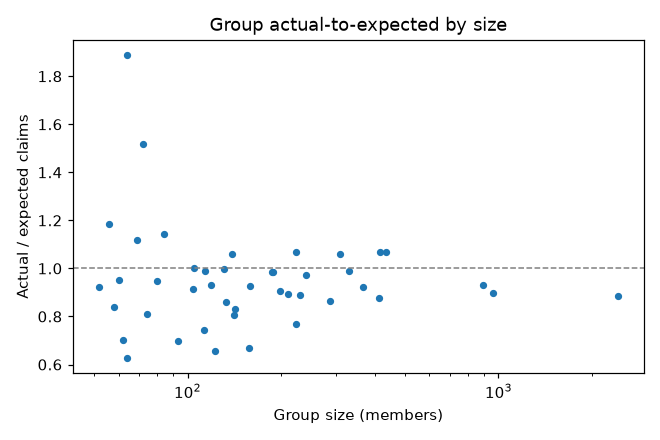
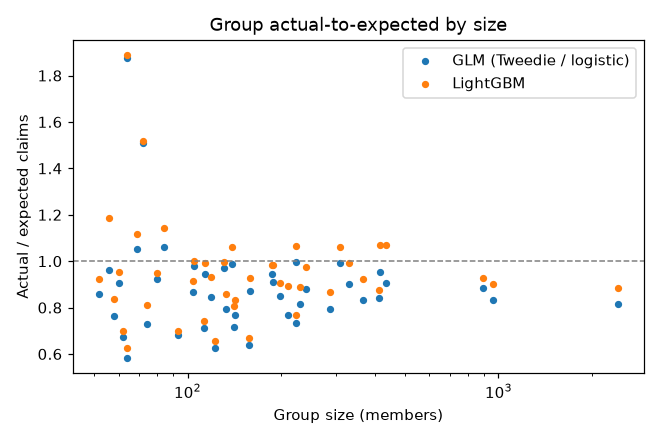
Regenerate synthetic results with both-model pricing

diff --git a/docs/synthetic/results.md b/docs/synthetic/results.md
@@ -62,17 +62,22 @@ Predictive ratio (predicted / actual) by decile of predicted cost:
 | $100,000 | 24 | LightGBM | 0.393 [0.271–0.494] | 0.002 [0.001–0.003] | 1.2 [0.0–2.1] | 0.0022 [0.0013–0.0031] |
 | $100,000 | 24 | GLM (Tweedie / logistic) | 0.502 [0.383–0.631] | 0.004 [0.001–0.023] | 1.2 [0.0–2.7] | 0.0022 [0.0013–0.0031] |
 
+AUC difference, LightGBM − GLM (paired, resampling members): $25,000: 0.006 [-0.007–0.018]; $50,000: -0.005 [-0.020–0.013]; $100,000: -0.109 [-0.275–0.051].
+
 ![HCC calibration](figures/hcc_calibration.png)
 
 ## Tail
 
 Generalized Pareto above $25,000 on training members' 2009 cost: shape ξ = 0.243, scale σ = $24,511, 407 exceedances (3.7% of members), KS p = 3.8e-05 (the KS p-value ignores that the parameters were fit, so it is optimistic).
 
-| Attachment | Claimants | Expected excess / member | Actual excess / member | Actual / expected |
-|---|---|---|---|---|
-| $25,000 | 467 | $1,418 [$1,365–$1,475] | $1,300 [$1,110–$1,482] | 0.92 [0.80–1.04] |
-| $50,000 | 265 | $711 [$685–$740] | $545 [$419–$687] | 0.77 [0.59–0.95] |
-| $100,000 | 24 | $251 [$242–$261] | $149 [$70–$245] | 0.60 [0.28–0.97] |
+| Attachment | Claimants | HCC model | Expected excess / member | Actual excess / member | Actual / expected |
+|---|---|---|---|---|---|
+| $25,000 | 467 | LightGBM | $1,418 [$1,365–$1,475] | $1,300 [$1,110–$1,482] | 0.92 [0.80–1.04] |
+| $25,000 | 467 | GLM (Tweedie / logistic) | $1,429 [$1,369–$1,493] | $1,300 [$1,110–$1,482] | 0.91 [0.79–1.03] |
+| $50,000 | 265 | LightGBM | $711 [$685–$740] | $545 [$419–$687] | 0.77 [0.59–0.95] |
+| $50,000 | 265 | GLM (Tweedie / logistic) | $717 [$687–$749] | $545 [$419–$687] | 0.76 [0.58–0.94] |
+| $100,000 | 24 | LightGBM | $251 [$242–$261] | $149 [$70–$245] | 0.60 [0.28–0.97] |
+| $100,000 | 24 | GLM (Tweedie / logistic) | $253 [$242–$264] | $149 [$70–$245] | 0.59 [0.27–0.97] |
 
 ![Tail diagnostics](figures/tail_mean_excess_qq.png)
 
@@ -87,14 +92,20 @@ Generalized Pareto above $25,000 on training members' 2009 cost: shape ξ = 0.24
 
 ## Stop-loss pricing by group size (test)
 
-| Size band | Groups | Members | Priced loss ratio | Actual loss ratio | Claims actual / expected | Specific actual / expected | Aggregate hits (expected) |
-|---|---|---|---|---|---|---|---|
-| 50-99 | 13 | 888 | 0.845 | 0.863 [0.735–1.001] | 1.02 [0.87–1.19] | 1.22 [0.60–2.13] | 0 (2.5) |
-| 100-249 | 21 | 3,384 | 0.859 | 0.776 [0.736–0.821] | 0.90 [0.86–0.96] | 0.72 [0.51–0.96] | 0 (2.4) |
-| 250-499 | 7 | 2,560 | 0.868 | 0.854 [0.805–0.906] | 0.98 [0.93–1.04] | 0.91 [0.54–1.23] | 0 (0.2) |
-| 500-999 | 2 | 1,856 | 0.869 | 0.794 [0.782–0.808] | 0.91 [0.90–0.93] | 0.24 [0.03–0.48] | 0 (0.0) |
-| 1000-2500 | 1 | 2,416 | 0.870 | 0.770 [0.770–0.770] | 0.89 [0.89–0.89] | 0.50 [0.50–0.50] | 0 (0.0) |
-| All | 44 | 11,104 | 0.864 | 0.803 [0.778–0.837] | 0.93 [0.90–0.97] | 0.81 [0.60–1.05] | 0 (5.2) |
+| Models | Size band | Groups | Members | Priced loss ratio | Actual loss ratio | Claims actual / expected | Specific actual / expected | Aggregate hits (expected) |
+|---|---|---|---|---|---|---|---|---|
+| GLM (Tweedie / logistic) | 50-99 | 13 | 888 | 0.845 | 0.809 [0.688–0.952] | 0.96 [0.82–1.13] | 1.22 [0.59–2.16] | 0 (2.4) |
+| GLM (Tweedie / logistic) | 100-249 | 21 | 3,384 | 0.860 | 0.723 [0.687–0.767] | 0.84 [0.80–0.89] | 0.72 [0.51–0.95] | 0 (2.3) |
+| GLM (Tweedie / logistic) | 250-499 | 7 | 2,560 | 0.868 | 0.773 [0.740–0.814] | 0.89 [0.85–0.94] | 0.89 [0.53–1.20] | 0 (0.3) |
+| GLM (Tweedie / logistic) | 500-999 | 2 | 1,856 | 0.869 | 0.745 [0.724–0.767] | 0.86 [0.83–0.88] | 0.23 [0.03–0.47] | 0 (0.0) |
+| GLM (Tweedie / logistic) | 1000-2500 | 1 | 2,416 | 0.870 | 0.710 [0.710–0.710] | 0.82 [0.82–0.82] | 0.50 [0.50–0.50] | 0 (0.0) |
+| GLM (Tweedie / logistic) | All | 44 | 11,104 | 0.864 | 0.742 [0.721–0.775] | 0.86 [0.83–0.90] | 0.80 [0.60–1.03] | 0 (5.1) |
+| LightGBM | 50-99 | 13 | 888 | 0.845 | 0.863 [0.735–1.001] | 1.02 [0.87–1.19] | 1.22 [0.60–2.13] | 0 (2.5) |
+| LightGBM | 100-249 | 21 | 3,384 | 0.859 | 0.776 [0.736–0.821] | 0.90 [0.86–0.96] | 0.72 [0.51–0.96] | 0 (2.4) |
+| LightGBM | 250-499 | 7 | 2,560 | 0.868 | 0.854 [0.805–0.906] | 0.98 [0.93–1.04] | 0.91 [0.54–1.23] | 0 (0.2) |
+| LightGBM | 500-999 | 2 | 1,856 | 0.869 | 0.794 [0.782–0.808] | 0.91 [0.90–0.93] | 0.24 [0.03–0.48] | 0 (0.0) |
+| LightGBM | 1000-2500 | 1 | 2,416 | 0.870 | 0.770 [0.770–0.770] | 0.89 [0.89–0.89] | 0.50 [0.50–0.50] | 0 (0.0) |
+| LightGBM | All | 44 | 11,104 | 0.864 | 0.803 [0.778–0.837] | 0.93 [0.90–0.97] | 0.81 [0.60–1.05] | 0 (5.2) |
 
 ![Group A/E](figures/group_actual_to_expected.png)
 
